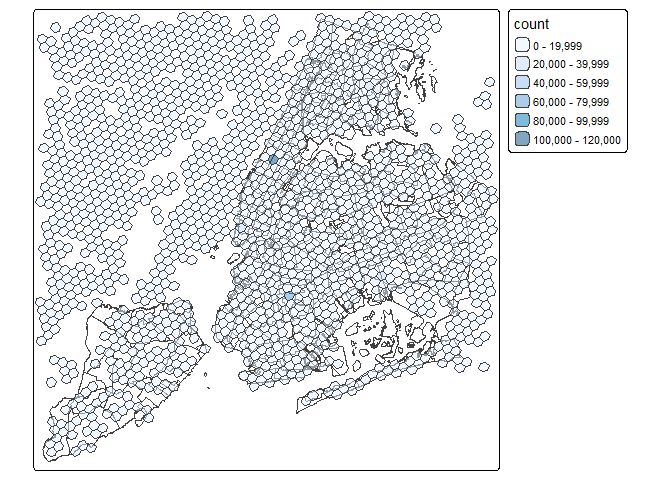
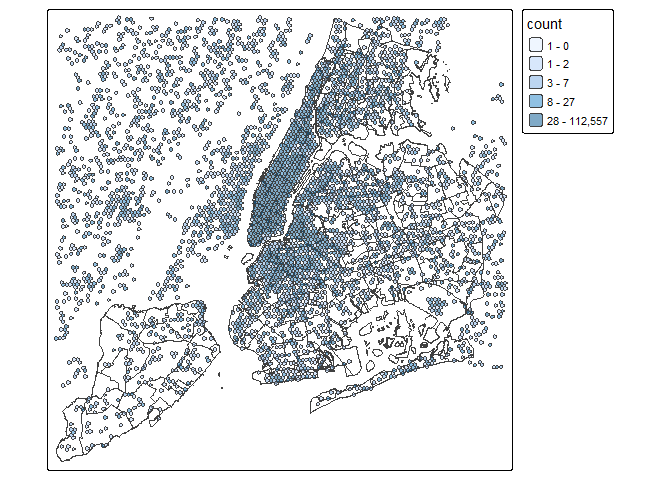
Changed Fill scale in heatmap to use quantile as well as updated h3 res to 9

Changed region(s): [[0.0312, 0.0, 0.9375, 0.9688]]

diff --git a/Data-exploration.md b/Data-exploration.md
@@ -130,10 +130,10 @@ h3_nyc_data_slim %>%
     ## Geometry set for 1 feature 
     ## Geometry type: MULTIPOLYGON
     ## Dimension:     XY
-    ## Bounding box:  xmin: -74.26574 ymin: 40.50056 xmax: -73.69027 ymax: 40.92204
+    ## Bounding box:  xmin: -74.25786 ymin: 40.50595 xmax: -73.69597 ymax: 40.91835
     ## Geodetic CRS:  WGS 84
 
-    ## MULTIPOLYGON (((-74.26216 40.89917, -74.26411 4...
+    ## MULTIPOLYGON (((-74.14446 40.80813, -74.14228 4...
 
 ``` r
 #creating cell counts data frame
@@ -152,7 +152,10 @@ counted_cells <- h3_nyc_data_slim %>%
 tm_shape(nynta["BoroName"])+
   tm_borders()+
   tm_shape(counted_cells)+
-  tm_polygons(fill = "count", fill_alpha = .5)
+  tm_polygons(fill = "count", 
+              fill.scale = tm_scale_intervals(n=5, 
+                                              style = 'quantile'),
+              fill_alpha = .5)
 ```
 
 ![](Data-exploration_files/figure-gfm/unnamed-chunk-8-1.png)<!-- -->